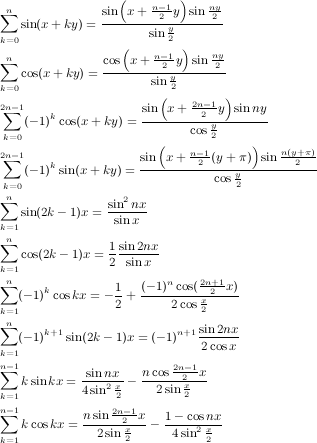
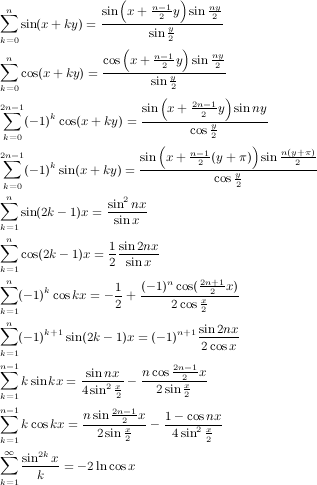
bugs

Changed region(s): [[0.0, 0.0, 1.0, 0.9977]]

diff --git a/sndscm.html b/sndscm.html
@@ -132,69 +132,75 @@ For help with Forth and Snd/CLM, see the Forth documentation section "Snd, CLM, 
 <tr><td><a href="#freeverbdoc">freeverb</a></td>
     <td onmouseover="return escape('a reverberator along the lines of nrev, but with more options.')">a reverb</td></tr>
 
-<tr><td bgcolor="#f6f8ff"><a href="#granidoc">grani</a></td>
-    <td bgcolor="#f6f8ff" onmouseover="return escape('a very flexible granular synthesis instrument')">CLM's grani (Fernando Lopez-Lezcano) translated by Mike Scholz</td></tr>
+<tr><td bgcolor="#f6f8ff"><a href="sdnclm.html#othergenerators">generators.scm</a></td>
+    <td bgcolor="#f6f8ff" onmouseover="return escape('lotsa gens')">a bunch of generators</td></tr>
 
-<tr><td><a href="#greendoc">green</a></td>
-    <td onmouseover="return escape('generators similar to rand and rand-interp.')">bounded brownian noise generators</td></tr>
+<tr><td><a href="#granidoc">grani</a></td>
+    <td onmouseover="return escape('a very flexible granular synthesis instrument')">CLM's grani (Fernando Lopez-Lezcano) translated by Mike Scholz</td></tr>
 
-<tr><td bgcolor="#f6f8ff"><a href="#heartdoc">heart</a></td>
-    <td bgcolor="#f6f8ff" onmouseover="return escape('This particular code is aimed at blood pressure readings.')">use Snd with non-sound (arbitrary range) data</td></tr>
+<tr><td bgcolor="#f6f8ff"><a href="#greendoc">green</a></td>
+    <td bgcolor="#f6f8ff" onmouseover="return escape('generators similar to rand and rand-interp.')">bounded brownian noise generators</td></tr>
 
-<tr><td><a href="#hooksdoc">hooks</a></td>
-    <td onmouseover="return escape('describe-hook, with-local-hook, reset-all-hooks.')">functions related to hooks</td></tr>
+<tr><td><a href="#heartdoc">heart</a></td>
+    <td onmouseover="return escape('This particular code is aimed at blood pressure readings.')">use Snd with non-sound (arbitrary range) data</td></tr>
 
-<tr><td bgcolor="#f6f8ff"><a href="#indexdoc">index</a></td>
-    <td bgcolor="#f6f8ff" onmouseover="return escape('connection between mozilla or firefox and the snd-help mechanism.')">snd-help extension</td></tr>
+<tr><td bgcolor="#f6f8ff"><a href="#hooksdoc">hooks</a></td>
+    <td  bgcolor="#f6f8ff" onmouseover="return escape('describe-hook, with-local-hook, reset-all-hooks.')">functions related to hooks</td></tr>
 
-<tr><td><a href="#dotemacs">inf-snd.el, DotEmacs</a></td>
-    <td onmouseover="return escape('a Snd emacs mode implementation.  You can use emacs as the listener, rather\
+<tr><td><a href="#indexdoc">index</a></td>
+    <td onmouseover="return escape('connection between mozilla or firefox and the snd-help mechanism.')">snd-help extension</td></tr>
+
+<tr><td bgcolor="#f6f8ff"><a href="#dotemacs">inf-snd.el, DotEmacs</a></td>
+    <td bgcolor="#f6f8ff" onmouseover="return escape('a Snd emacs mode implementation.  You can use emacs as the listener, rather\
  than the built-in Snd window.')">Emacs subjob support (Michael Scholz, Fernando Lopez-Lezcano)</td></tr>
 
-<tr><td bgcolor="#f6f8ff"><a href="#jcrevdoc">jcrev</a></td>
-    <td bgcolor="#f6f8ff" onmouseover="return escape('probably the first Schroeder reverb, based on all-pass and comb filters.')">John Chowning's ancient reverb</td></tr>
+<tr><td><a href="#jcrevdoc">jcrev</a></td>
+    <td onmouseover="return escape('probably the first Schroeder reverb, based on all-pass and comb filters.')">John Chowning's ancient reverb</td></tr>
 
-<tr><td><a href="#ladspadoc">ladspa.scm, ladspa-help.scm, gui.scm</a></td>
-    <td onmouseover="return escape('LADSPA is the linux audio group plugin standard. There are a lot\
+<tr><td bgcolor="#f6f8ff"><a href="#ladspadoc">ladspa.scm, ladspa-help.scm, gui.scm</a></td>
+    <td bgcolor="#f6f8ff" onmouseover="return escape('LADSPA is the linux audio group plugin standard. There are a lot\
  of plugin collections.')">Kjetil S. Matheussen's LADSPA GUI-builder and previewer.</td></tr>
 
-<tr><td bgcolor="#f6f8ff"><a href="#maracadoc">maraca</a></td>
-    <td bgcolor="#f6f8ff" onmouseover="return escape('includes the maraca and related noise makers: tambourine, wind-chimes, etc')">Perry Cook's maraca physical model</td></tr>
+<tr><td><a href="#maracadoc">maraca</a></td>
+    <td onmouseover="return escape('includes the maraca and related noise makers: tambourine, wind-chimes, etc')">Perry Cook's maraca physical model</td></tr>
 
-<tr><td><a href="#marksdoc">marks</a></td>
-    <td onmouseover="return escape('includes describe-mark, eval-between-marks, mark-property,\
+<tr><td bgcolor="#f6f8ff"><a href="#marksdoc">marks</a></td>
+    <td bgcolor="#f6f8ff" onmouseover="return escape('includes describe-mark, eval-between-marks, mark-property,\
  play-between-marks, snap-marks.')">functions related to marks</td></tr>
 
-<tr><td bgcolor="#f6f8ff"><a href="#maxfdoc">maxf</a></td>
-    <td bgcolor="#f6f8ff" onmouseover="return escape('This is a collection of modal synthesis demos.  For the actual filter, see mfilter\
+<tr><td><a href="#maxfdoc">maxf</a></td>
+    <td onmouseover="return escape('This is a collection of modal synthesis demos.  For the actual filter, see mfilter\
  in dsp.scm.')">Max Mathews resonator</td></tr>
 
-<tr><td><a href="#menusdoc">menus</a></td>
-    <td onmouseover="return escape('Menu additions for things like crop, trim,\
+<tr><td bgcolor="#f6f8ff"><a href="#menusdoc">menus</a></td>
+    <td bgcolor="#f6f8ff" onmouseover="return escape('Menu additions for things like crop, trim,\
  fft notch filter, mark and mix functions, etc.  The main one loads a huge set of sound effects.')">additional menus</td></tr>
 
-<tr><td bgcolor="#f6f8ff"><a href="#mixdoc">mix</a></td>
-    <td bgcolor="#f6f8ff" onmouseover="return escape('mix-property, silence-all-mixes, mix-sound, save-mix,\
+<tr><td><a href="#mixdoc">mix</a></td>
+    <td onmouseover="return escape('mix-property, silence-all-mixes, mix-sound, save-mix,\
  snap-mix-to-beat')">functions related to mixes</td></tr>
 
-<tr><td><a href="#mixerdoc">mixer</a></td>
-    <td onmouseover="return escape('matrix determinant, transpose, invert, using the CLM\
+<tr><td bgcolor="#f6f8ff"><a href="#mixerdoc">mixer</a></td>
+    <td bgcolor="#f6f8ff" onmouseover="return escape('matrix determinant, transpose, invert, using the CLM\
  mixer and frame generators')">functions related to mixers and frames (linear algebra)</td></tr>
 
-<tr><td bgcolor="#f6f8ff"><a href="#moogdoc">moog</a></td>
-    <td bgcolor="#f6f8ff" onmouseover="return escape('four pole lowpass (24db/Oct) filter clm generator, variable resonance,\
+<tr><td><a href="#moogdoc">moog</a></td>
+    <td onmouseover="return escape('four pole lowpass (24db/Oct) filter clm generator, variable resonance,\
  warm, analog sound.')">Moog filter</td></tr>
 
-<tr><td><a href="#musglyphs">musglyphs</a></td>
-    <td onmouseover="return escape('A music symbol font in lisp using bezier curves')">Music notation symbols (from CMN)</td></tr>
+<tr><td bgcolor="#f6f8ff"><a href="#musglyphs">musglyphs</a></td>
+    <td bgcolor="#f6f8ff" onmouseover="return escape('A music symbol font in lisp using bezier curves')">Music notation symbols (from CMN)</td></tr>
 
-<tr><td bgcolor="#f6f8ff"><a href="#nbdoc">nb</a></td>
-    <td bgcolor="#f6f8ff" onmouseover="return escape('As you move the mouse through the view-files list, the help dialog posts information about\
+<tr><td><a href="#nbdoc">nb</a></td>
+    <td onmouseover="return escape('As you move the mouse through the view-files list, the help dialog posts information about\
  the file underneath the mouse')">Popup File info etc</td></tr>
 
-<tr><td><a href="#noisedoc">noise</a></td>
-    <td onmouseover="return escape('The ancient noise instrument can produce those all-important whooshing\
+<tr><td bgcolor="#f6f8ff"><a href="#noisedoc">noise</a></td>
+    <td bgcolor="#f6f8ff" onmouseover="return escape('The ancient noise instrument can produce those all-important whooshing\
  sounds')">noise.ins from CLM translated to Scheme/Ruby by Michael Scholz</td></tr>
+
+<tr><td><a href="#numericsdoc">numerics</a></td>
+    <td onmouseover="return escape('various amusing functions')">various numerical functions</td></tr>
 
 <tr><td bgcolor="#f6f8ff"><a href="#oscopedoc">oscope</a></td>
     <td bgcolor="#f6f8ff" onmouseover="return escape('oscope.scm sets up a dialog with a Snd channel window (time domain, fft etc) that displays the\
@@ -247,47 +253,47 @@ For help with Forth and Snd/CLM, see the Forth documentation section "Snd, CLM, 
 <tr><td bgcolor="#f6f8ff"><a href="#snddiffdoc">snddiff</a></td>
     <td bgcolor="#f6f8ff" onmouseover="return escape('a diff or grep-like function for sounds')">sound difference detection</td></tr>
 
-<tr><td bgcolor="#f6f8ff"><a href="#sndgldoc">snd-gl</a></td>
-    <td bgcolor="#f6f8ff" onmouseover="return escape('a waterfall fft graph, GL state readbacks')">OpenGL examples (gl.c)</td></tr>
+<tr><td><a href="#sndgldoc">snd-gl</a></td>
+    <td onmouseover="return escape('a waterfall fft graph, GL state readbacks')">OpenGL examples (gl.c)</td></tr>
 
-<tr><td><a href="#sndmotifdoc">snd-motif, snd-gtk, snd-xm</a></td>
-    <td onmouseover="return escape('user interface extensions using the libxm modules: add-mark-pane,\
+<tr><td bgcolor="#f6f8ff"><a href="#sndmotifdoc">snd-motif, snd-gtk, snd-xm</a></td>
+    <td bgcolor="#f6f8ff" onmouseover="return escape('user interface extensions using the libxm modules: add-mark-pane,\
  display-scanned-synthesis, load-font, with-level-meters, variable-display, smpte labels, etc')">Motif/Gtk module (xm.c, xg.c)</td></tr>
 
-<tr><td bgcolor="#f6f8ff"><a href="#sndtestdoc">snd-test</a></td>
-    <td bgcolor="#f6f8ff" onmouseover="return escape('a zillion tests -- useful as a source of examples')">Snd regression tests</td></tr>
+<tr><td><a href="#sndtestdoc">snd-test</a></td>
+    <td onmouseover="return escape('a zillion tests -- useful as a source of examples')">Snd regression tests</td></tr>
 
-<tr><td><a href="#sndwarpdoc">sndwarp</a></td>
-    <td onmouseover="return escape('stretch a sound')">Bret Battey's sndwarp instrument</td></tr>
+<tr><td bgcolor="#f6f8ff"><a href="#sndwarpdoc">sndwarp</a></td>
+    <td bgcolor="#f6f8ff" onmouseover="return escape('stretch a sound')">Bret Battey's sndwarp instrument</td></tr>
 
-<tr><td bgcolor="#f6f8ff"><a href="#spectrdoc">spectr</a></td>
-    <td bgcolor="#f6f8ff">instrument steady state spectra</td></tr>
+<tr><td><a href="#spectrdoc">spectr</a></td>
+    <td>instrument steady state spectra</td></tr>
 
-<tr><td><a href="#stochasticdoc">stochastic</a></td>
-    <td>Bill Sack's dynamic stochastic synthesis</td></tr>
+<tr><td bgcolor="#f6f8ff"><a href="#stochasticdoc">stochastic</a></td>
+    <td bgcolor="#f6f8ff">Bill Sack's dynamic stochastic synthesis</td></tr>
 
-<tr><td bgcolor="#f6f8ff"><a href="#straddoc">strad</a></td>
-    <td bgcolor="#f6f8ff">string physical model (from CLM)</td></tr>
+<tr><td><a href="#straddoc">strad</a></td>
+    <td>string physical model (from CLM)</td></tr>
 
-<tr><td><a href="#vdoc">v</a></td>
-    <td onmouseover="return escape('a wonderful instrument!')">fm-violin</td></tr>
+<tr><td bgcolor="#f6f8ff"><a href="#vdoc">v</a></td>
+    <td bgcolor="#f6f8ff" onmouseover="return escape('a wonderful instrument!')">fm-violin</td></tr>
 
-<tr><td bgcolor="#f6f8ff"><a href="#wsdoc">ws</a></td>
-    <td bgcolor="#f6f8ff" onmouseover="return escape('with-sound provides a simple way to package up a bunch of instrument calls into a new sound file,\
+<tr><td><a href="#wsdoc">ws</a></td>
+    <td onmouseover="return escape('with-sound provides a simple way to package up a bunch of instrument calls into a new sound file,\
  and open that file in Snd when the computation is complete')">with-sound</td></tr>
 
-<tr><td><a href="#zipdoc">zip</a></td>
-    <td onmouseover="return escape('The zipper marches through the two sounds taking equal short portions of each,\
+<tr><td bgcolor="#f6f8ff"><a href="#zipdoc">zip</a></td>
+    <td bgcolor="#f6f8ff" onmouseover="return escape('The zipper marches through the two sounds taking equal short portions of each,\
  then abutting them while resampling so that as one takes less overall frame space, the other takes more.')">the zipper (the anti-cross-fader)</td></tr>
 
-<tr><td bgcolor="#f6f8ff"><a href="#extsndasneededexpl">A Note on "As-Needed" input functions</a></td>
-    <td bgcolor="#f6f8ff"></td></tr>
+<tr><td><a href="#extsndasneededexpl">A Note on "As-Needed" input functions</a></td>
+    <td></td></tr>
 
-<tr><td><a href="#extsndcgens">A Note on User-defined Generators in C-CLM</a></td>
-    <td ></td></tr>
+<tr><td bgcolor="#f6f8ff"><a href="#extsndcgens">A Note on User-defined Generators in C-CLM</a></td>
+    <td bgcolor="#f6f8ff" ></td></tr>
 
-<tr><td bgcolor="#f6f8ff"><a href="#noisystory">A Note on Noise Reduction</a></td>
-    <td bgcolor="#f6f8ff"></td></tr>
+<tr><td><a href="#noisystory">A Note on Noise Reduction</a></td>
+    <td></td></tr>
 
 </table>
 </td></tr></table>
@@ -6906,6 +6912,17 @@ There is also a generator-like version of the instrument:
 <pre>see also: <a href="#maracadoc" onmouseover="return escape('noisy physical models')">maraca</a> <a href="sndclm.html#randdoc" onmouseover="return escape('random number generators')">rand</a>
 </pre></td>
 </tr></table>
+
+<br>
+
+
+<!-- ---------------------------------------- FILE: numerics ---------------------------------------- -->
+
+<A NAME="numericsdoc"></a><table width="100%" border=0><tr><td bgcolor="beige" align="center" valign="middle"><h2>numerics</h2></td></tr></table>
+
+<p>not yet written</p>
+
+<!-- TODO: numerics doc -->
 
 <br>
 

diff --git a/sndclm.html b/sndclm.html
@@ -80,7 +80,7 @@ note lists and instruments are described in sndscm.html.
 
 <tr><td colspan=3><center><a href="#introduction">Introduction</a></center></td></tr>
 
-<tr><td colspan=3><center><a href="#generators">Generators</a></center></td></tr>
+<tr><td colspan=3><center><a href="#generators">Built-in Generators</a></center></td></tr>
 
 <tr><td width=20 bgcolor="#f6f8ff"></td><td>
 <table border=0 cellpadding=0>
@@ -134,6 +134,8 @@ note lists and instruments are described in sndscm.html.
   <tr><td><a href="#waveshapedoc">waveshape</a></td><td></td><td>waveshaping</td></tr>
 </table>
 </td></tr>
+
+<tr><td colspan=3><center><a href="#othergenerators">Other Generators</a></center></td></tr>
 
 <tr><td colspan=3><center><a href="#functions">Functions</a></center></td></tr>
 
@@ -1840,6 +1842,8 @@ For example, here is a generator based on the <a href="sndscm.html#sumofnsines">
 &\sum_{k=1}^{n}(-1)^{k+1}\sin(2k-1)x = (-1)^{n+1}\frac{\sin 2nx}{2\cos x} \\
 &\sum_{k=1}^{n-1}k\sin kx=\frac{\sin nx}{4 \sin^{2}\frac{x}{2}} - \frac{n \cos \frac{2n-1}{2}x}{2\sin\frac{x}{2}} \\
 &\sum_{k=1}^{n-1}k\cos kx=\frac{n\sin\frac{2n-1}{2}x}{2\sin\frac{x}{2}} - \frac{1-\cos nx}{4\sin^{2}\frac{x}{2}} \\
+&\sum_{k=1}^{\infty} \frac{\sin^{2k} x}{k} = -2 \ln \cos x
+
 &\sum_{k=1}^{n-1}p^{k}\sin kx=\frac{p\sin x - p^{n}\sin nx + p^{n+1}\sin(n-1)x}{1-2p\cos x+p^{2}} \\
 &\sum_{k=0}^{n-1}p^{k}\cos kx=\frac{1-p\cos x - p^{n}\cos nx + p^{n+1}\cos(n-1)x}{1-2p\cos x + p^{2}} \\
 &\sum_{k=1}^{\infty}p^{k}\sin kx=\frac{p\sin x}{1-2p\cos x + p^{2}} \\
@@ -1865,6 +1869,12 @@ For example, here is a generator based on the <a href="sndscm.html#sumofnsines">
 &\sum_{k=1}^{\infty} \frac{a^{2k}\sin 2kx}{(2k)!} = \sinh(a \cos x) \sin (a \sin x) & (a^{2}<1) \\
 &\frac{1}{a} + 2a \sum_{k=1}^{\infty} \frac{\cos kx}{a^{2}+k^{2}} = \pi \frac{\cosh a(\pi-x)}{\sinh a\pi} & (0 \leq x \leq 2\pi)\\
 \end{align*}
+
+sceq23:
+& \ln (1 - 2xt + t^{2})^{-1} = 2 \sum_{n=1}^{\infty} \frac{t^{n}}{n} T_{n}(x) \\
+& (1 - 2xt + t^{2})^{-1} = \frac{1}{\sqrt{1 - x^{2}}} \sum_{n=0}^{\infty} t^{n} U_{n+1}(x) \\
+& e^{z cos x}J_{\nu-\frac{1}{2}}(z \sin x) = \frac{\Gamma(\nu)}{\Gamma(\frac{1}{2})}(2 \sin x)^{\nu-\frac{1}{2}} \sum_{k=0}^{\infty}\frac{z^{\nu+k-\frac{1}{2}}}{\Gamma(2\nu + k)} \mathrm{C}^{\nu}_{k}(\cos x)
+
 -->
 
 <table border=1 hspace=20 vspace=10><tr><td>
@@ -1880,7 +1890,7 @@ For example, here is a generator based on the <a href="sndscm.html#sumofnsines">
 </td>
 </tr>
 
-<tr><td colspan=3 bgcolor="#eefdee"><center>from Gradshteyn and Ryzhik, "Table of Integrals...", 1.341.., 1.352.., 1.447.., 1.461.</center></td></tr>
+<tr><td colspan=3 bgcolor="#eefdee"><center>from Gradshteyn and Ryzhik, "Table of Integrals, Series, and Products", 1.341.., 1.352.., 1.447.., 1.461, 1.518.</center></td></tr>
 <tr><td colspan=3 height=20></td></tr>
 
 <tr><td colspan=3><img src="sceq7.png" alt="kosines" align=absmiddle hspace=10></td></tr>
@@ -1890,17 +1900,22 @@ For example, here is a generator based on the <a href="sndscm.html#sumofnsines">
 <tr><td><img src="sceq20.png" alt="more sums"></td><td></td>
 <td><img src="sceq21.png" alt="more sums"></td></tr>
 <tr><td colspan=3 bgcolor="#eefdee"><center>from Jolley, "Summation of Series", 521 587 620 635 638 728</center></td></tr>
+<tr><td colspan=3 height=20></td></tr>
+
+<tr><td colspan=2><img src="sceq23.png" alt="more sums"></td><td></td></tr>
+<tr><td colspan=3 bgcolor="#eefdee"><center>from Wong and Guo, "Special Functions"</center></td></tr>
 
 </table>
 
 </td></tr></table>
 
-<!-- PERHAPS: Bateman -->
+<!-- PERHAPS: Bateman, Askey&Roy, Watson -->
 
 <p>
 A few of these exist as generators, but, as far as I know, most have never been explored.
-It is not hard to play around with formulas like these (and these are just a fraction
-of the possibilities).  Take the last one in the G&amp;R section:
+Don't shy away from the sums to infinity just because you've heard shouting about "band-limited waveforms" -- FM is also such a sum.
+It is not hard to goof around with formulas like these;
+take the last one in the G&amp;R section:
 </p>
 
 <table border=0 bgcolor="#fafafa" hspace=40><tr><td>
@@ -1952,10 +1967,14 @@ of the possibilities).  Take the last one in the G&amp;R section:
 </pre>
 
 <p>which can be folded into the original at no run-time cost.  See generators.scm for
-some of these in an undigested state.
+some of these in an undigested state.  As J. A. Moorer and Marc Le Brun pointed out
+eons ago, there are many more such formulas "buried in reference works".  Well, they've
+done nobody any good being buried for a generation, so I say: dig them up!  If
+you know of any curious formula, anything that might trigger an interesting train of
+reflection, send it to me, and I'll add it to this collection.  I think there are at
+least a dozen people in the world (I can count three anyway) who are interested,
+and at least one of them is allergic to book dust.  You too can save the world.
 </p>
-
-<!-- TODO: doc/test (and finish...) generators.scm -->
 
 <br><br>
 
@@ -3792,7 +3811,7 @@ that we get a sum of cosines, and can therefore easily normalize the peak amplit
 <p>"r" is the ratio between successive 
 sideband amplitudes, r &lt; 0.0 or r &gt; 1.0 pushes energy above the carrier, whereas r between 0.0 and 1.0 pushes it below. (r = 1.0
 gives normal FM).  The mirror image of r (around a given
-carrier), is produced by -1/r.
+carrier) is produced by -1/r.
 "ratio" is the ratio between the carrier and modulator (i.e. sideband spacing). It's somewhat inconsistent
 that asymmetric-fm takes "index" (the fm-index) as its second argument, but otherwise it
 would be tricky to get time-varying indices.  In this instrument we sweep "r" with an envelope:
@@ -4305,6 +4324,19 @@ dlocsig macro.  All the necessary data is packaged up in a list:
 
 
 
+<table width="80%" border=0><tr><td bgcolor="lightsteelblue" valign="middle"><h2>Other Generators</h2></td></tr></table>
+<A NAME="othergenerators"></A>
+
+<!-- ---------------------------------------- OTHER GENERATORS ---------------------------------------- -->
+
+<p>not yet written... (generators.scm, etc)
+</p>
+
+<!-- TODO: other generators doc -->
+
+
+<br><br>
+
 <table width="80%" border=0><tr><td bgcolor="lightsteelblue" valign="middle"><h2>Functions</h2></td></tr></table>
 <A NAME="genericfunctions"></A>
 
@@ -4382,7 +4414,7 @@ determines how many vct elements are printed by mus-describe.
 
 <!-- ---------------------------------------- FUNCTIONS ---------------------------------------- -->
 
-<table width="60%" border=0><tr><td bgcolor="lightgreen" valign="middle"><center><h3><A class=def NAME="functions">Other functions</a></h3></center></td></tr></table>
+<table width="60%" border=0><tr><td bgcolor="lightgreen" valign="middle"><center><h3><A class=def NAME="functions">Other Functions</a></h3></center></td></tr></table>
 
 <p>There are several functions closely tied to the generators and instruments.
 </p>

diff --git a/fm.html b/fm.html
@@ -712,6 +712,32 @@ are just as they were before, but the initial phases of the side bands have chan
 </pre>
 -->
 
+
+<!-- LATEX:
+\small
+\begin{align*}
+& \cos(B \sin x) = J_{0}(B) + 2 \sum_{k=1}^{\infty} J_{2k}(B) \cos 2kx \\
+& \cos(B \cos x) = J_{0}(B) + 2 \sum_{k=1}^{\infty} (-1)^{k} J_{2k}(B) \cos 2kx \\
+& \sin(B \sin x) = 2 \sum_{k=0}^{\infty} J_{2k+1}(B) \sin (2k+1)x \\
+& \sin(B \cos x) = 2 \sum_{k=0}^{\infty} (-1)^{k} J_{2k+1}(B) \cos (2k+1)x \\
+\end{align*}
+-->
+
+<table border=1 hspace=40 vspace=20><tr><td>
+<table border=0 hspace=20>
+<tr><td colspan=3>
+Or perhaps more readable:
+</td></tr>
+<td>
+<img src="fmeq49.png" alt="cos cos cases">
+</td><td width=20></td>
+<td>
+<img src="fmeq50.png" alt="cos cos cases">
+</td>
+</tr></table>
+</td></tr><table>
+
+
 <p>Our first reaction is, "so what if one's a sine and another's a cosine, or whatever -- they'll sound the 
 same", but we are being hasty.  What if (for example), the modulator has the same frequency as the 
 carrier, and its index (B) is high enough that some significant energy appears at

diff --git a/snd.h b/snd.h
@@ -71,7 +71,7 @@
 
 #include "snd-strings.h"
 
-#define SND_DATE "7-Sep-07"
+#define SND_DATE "10-Sep-07"
 #define SND_VERSION "9.4"
 #define SND_MAJOR_VERSION "9"
 #define SND_MINOR_VERSION "4"
